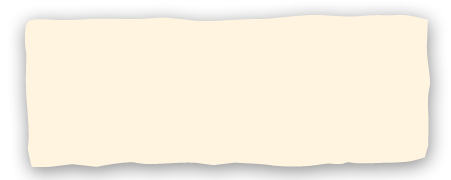
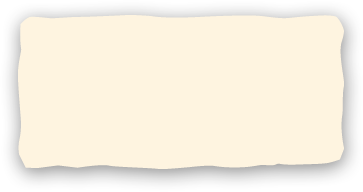
New style of frame preview

diff --git a/public/scss/admin/cosmetics/_tale.scss b/public/scss/admin/cosmetics/_tale.scss
@@ -12,7 +12,7 @@ $frameBgWidth: 3705px;
 $frameBgHeight: 1200px;
 $taleBorderBg: #000;
 $titleWidth: 346px;
-$posWrapWidth: 424px;
+$posWrapWidth: 328px;
 
 .taleForm {
     .right-side {
@@ -167,43 +167,34 @@ $posWrapWidth: 424px;
     }
 
     .framePosWrap {
-        position: absolute;
-        width: $posWrapWidth;
-        height: 153px;
-        bottom: 21px;
-        left: ($taleZoneWidth - $posWrapWidth) / 2;
+        @include position(absolute, null null 10px ($taleZoneWidth - $posWrapWidth) / 2);
+        @include size($posWrapWidth 152px);
 
         &:after {
             content: '';
-            position: absolute;
-            left: -14px;
-            top: -13px;
+            @include position(absolute, -13px none none -14px);
             z-index: 1;
-            width: 451px;
-            height: 180px;
+            @include size(363px 192px);
             background-image: url('#{$imgPath}spread.png');
         }
 
         .miniBg {
-            position: absolute;
-            top: 12px;
-            left: 21px;
+            @include position(absolute, 26px null null 18px);
+            @include size(295px 103px);
             z-index: 2;
-            width: 382px;
-            height: 124px;
-
         }
 
         .miniFrame {
-            @include position(absolute, 0 null null null);
-            @include size(154px 124px);
+            @include position(absolute, -18px null null null);
+            @include size(201px 142px);
             margin-left: -13px;
-            border-radius: 10px;
-            border: 31px solid $orange;
-            border-left: 13px solid $orange;
-            border-right: 13px solid $orange;
-            box-shadow: inset 2px 2px 0px 0px rgba(0, 0, 0, 0.3);
-            cursor: default;
+            cursor: move;
+            &:after {
+                content: '';
+                @include position(absolute, 0 null null 0);
+                @include size(201px 142px);
+                background: url('#{$imgPath}previewFrame.png');
+            }
         }
     }
 }

diff --git a/public/css/user/base.css b/public/css/user/base.css
@@ -268,38 +268,41 @@ module {
         background: url("/img/nextInSlide.png"); }
   .taleZone .framePosWrap {
     position: absolute;
-    width: 424px;
-    height: 153px;
-    bottom: 21px;
-    left: 400px; }
+    bottom: 10px;
+    left: 448px;
+    height: 152px;
+    width: 328px; }
     .taleZone .framePosWrap:after {
       content: '';
       position: absolute;
-      left: -14px;
       top: -13px;
+      left: -14px;
       z-index: 1;
-      width: 451px;
-      height: 180px;
+      height: 192px;
+      width: 363px;
       background-image: url("/img/spread.png"); }
     .taleZone .framePosWrap .miniBg {
       position: absolute;
-      top: 12px;
-      left: 21px;
-      z-index: 2;
-      width: 382px;
-      height: 124px; }
+      top: 26px;
+      left: 18px;
+      height: 103px;
+      width: 295px;
+      z-index: 2; }
     .taleZone .framePosWrap .miniFrame {
       position: absolute;
-      top: 0;
-      height: 124px;
-      width: 154px;
+      top: -18px;
+      height: 142px;
+      width: 201px;
       margin-left: -13px;
-      border-radius: 10px;
-      border: 31px solid #f59b06;
-      border-left: 13px solid #f59b06;
-      border-right: 13px solid #f59b06;
-      box-shadow: inset 2px 2px 0px 0px rgba(0, 0, 0, 0.3);
-      cursor: default; }
+      cursor: move; }
+      .taleZone .framePosWrap .miniFrame:after {
+        content: '';
+        position: absolute;
+        top: 0;
+        left: 0;
+        height: 142px;
+        width: 201px;
+        background: url("/img/previewFrame.png"); }
 
 .chooseMusic {
   position: absolute;

diff --git a/public/css/admin/base.css b/public/css/admin/base.css
@@ -239,38 +239,41 @@ html {
         background: url("/img/nextInSlide.png"); }
   .taleZone .framePosWrap {
     position: absolute;
-    width: 424px;
-    height: 153px;
-    bottom: 21px;
-    left: 400px; }
+    bottom: 10px;
+    left: 448px;
+    height: 152px;
+    width: 328px; }
     .taleZone .framePosWrap:after {
       content: '';
       position: absolute;
-      left: -14px;
       top: -13px;
+      left: -14px;
       z-index: 1;
-      width: 451px;
-      height: 180px;
+      height: 192px;
+      width: 363px;
       background-image: url("/img/spread.png"); }
     .taleZone .framePosWrap .miniBg {
       position: absolute;
-      top: 12px;
-      left: 21px;
-      z-index: 2;
-      width: 382px;
-      height: 124px; }
+      top: 26px;
+      left: 18px;
+      height: 103px;
+      width: 295px;
+      z-index: 2; }
     .taleZone .framePosWrap .miniFrame {
       position: absolute;
-      top: 0;
-      height: 124px;
-      width: 154px;
+      top: -18px;
+      height: 142px;
+      width: 201px;
       margin-left: -13px;
-      border-radius: 10px;
-      border: 31px solid #f59b06;
-      border-left: 13px solid #f59b06;
-      border-right: 13px solid #f59b06;
-      box-shadow: inset 2px 2px 0px 0px rgba(0, 0, 0, 0.3);
-      cursor: default; }
+      cursor: move; }
+      .taleZone .framePosWrap .miniFrame:after {
+        content: '';
+        position: absolute;
+        top: 0;
+        left: 0;
+        height: 142px;
+        width: 201px;
+        background: url("/img/previewFrame.png"); }
 
 .chooseMusic {
   position: absolute;
